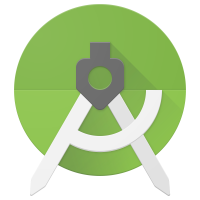
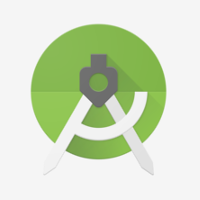
Fin de la refonte du template des badges Redimensionnement de certaines images pour plus d'esthétisme

diff --git a/src/html/templates/rewards.html b/src/html/templates/rewards.html
@@ -48,48 +48,18 @@
     <!-- NAVBAR --->
     <dty-header></dty-header>
 
-    <div class="container">
-
-        <div class="row">
-            <div class="col-sm-offset-1 col-sm-10">
-                <div class = "page-header-dty">
-                    <h1>
-                        Your rewards :
-                    </h1>
-                </div>
-                <p>Because your fidelity and your progression are important, we congratulate you for your hard-won
-                    badges !</p>
-            </div>
-
-            <div ng-controller="BadgeController as badgeCtrl">
-                <div ng-repeat="badge in badgeCtrl.badges">
-                    <div class="col-sm-offset-1 col-sm-3" id="badges">
-                            <a href={{badge.link}} title={{badge.description}}><img ng-src={{badge.image}}></a>
-                            <p>
-                                <!--<h2>{{badge.name}}</h2>-->
-                            </p>
-                    </div>
-                </div>
-            </div>
-
-
-        </div>
-
-
-    </div>
-
     <!-- Page Content -->
     <div class="container">
 
         <!-- Introduction Row -->
         <div class="row">
-            <div class="col-lg-12">
-                <h1 class="page-header">Rewards
+            <div class="col-lg-12 page-header-dty">
+                <h1>Rewards
                     <small></small>
                 </h1>
-                <p>Because your fidelity and your progression are important, we congratulate you for your hard-won
-                    badges !</p>
             </div>
+            <p>Because your fidelity and your progression are important, we congratulate you for your hard-won
+                badges !</p>
         </div>
 
         <!-- Team Members Row -->

diff --git a/src/html/templates/profile.html b/src/html/templates/profile.html
@@ -65,7 +65,7 @@
                     <div class="col-md-offset-1 col-md-10">
                         <div class = "page-header-dty">
                             <h1>
-                                Your courses :
+                                Your courses
                             </h1>
                         </div>
                         <p>We strongly advise you to do the lesson of the day before doing any other lesson.</p>
